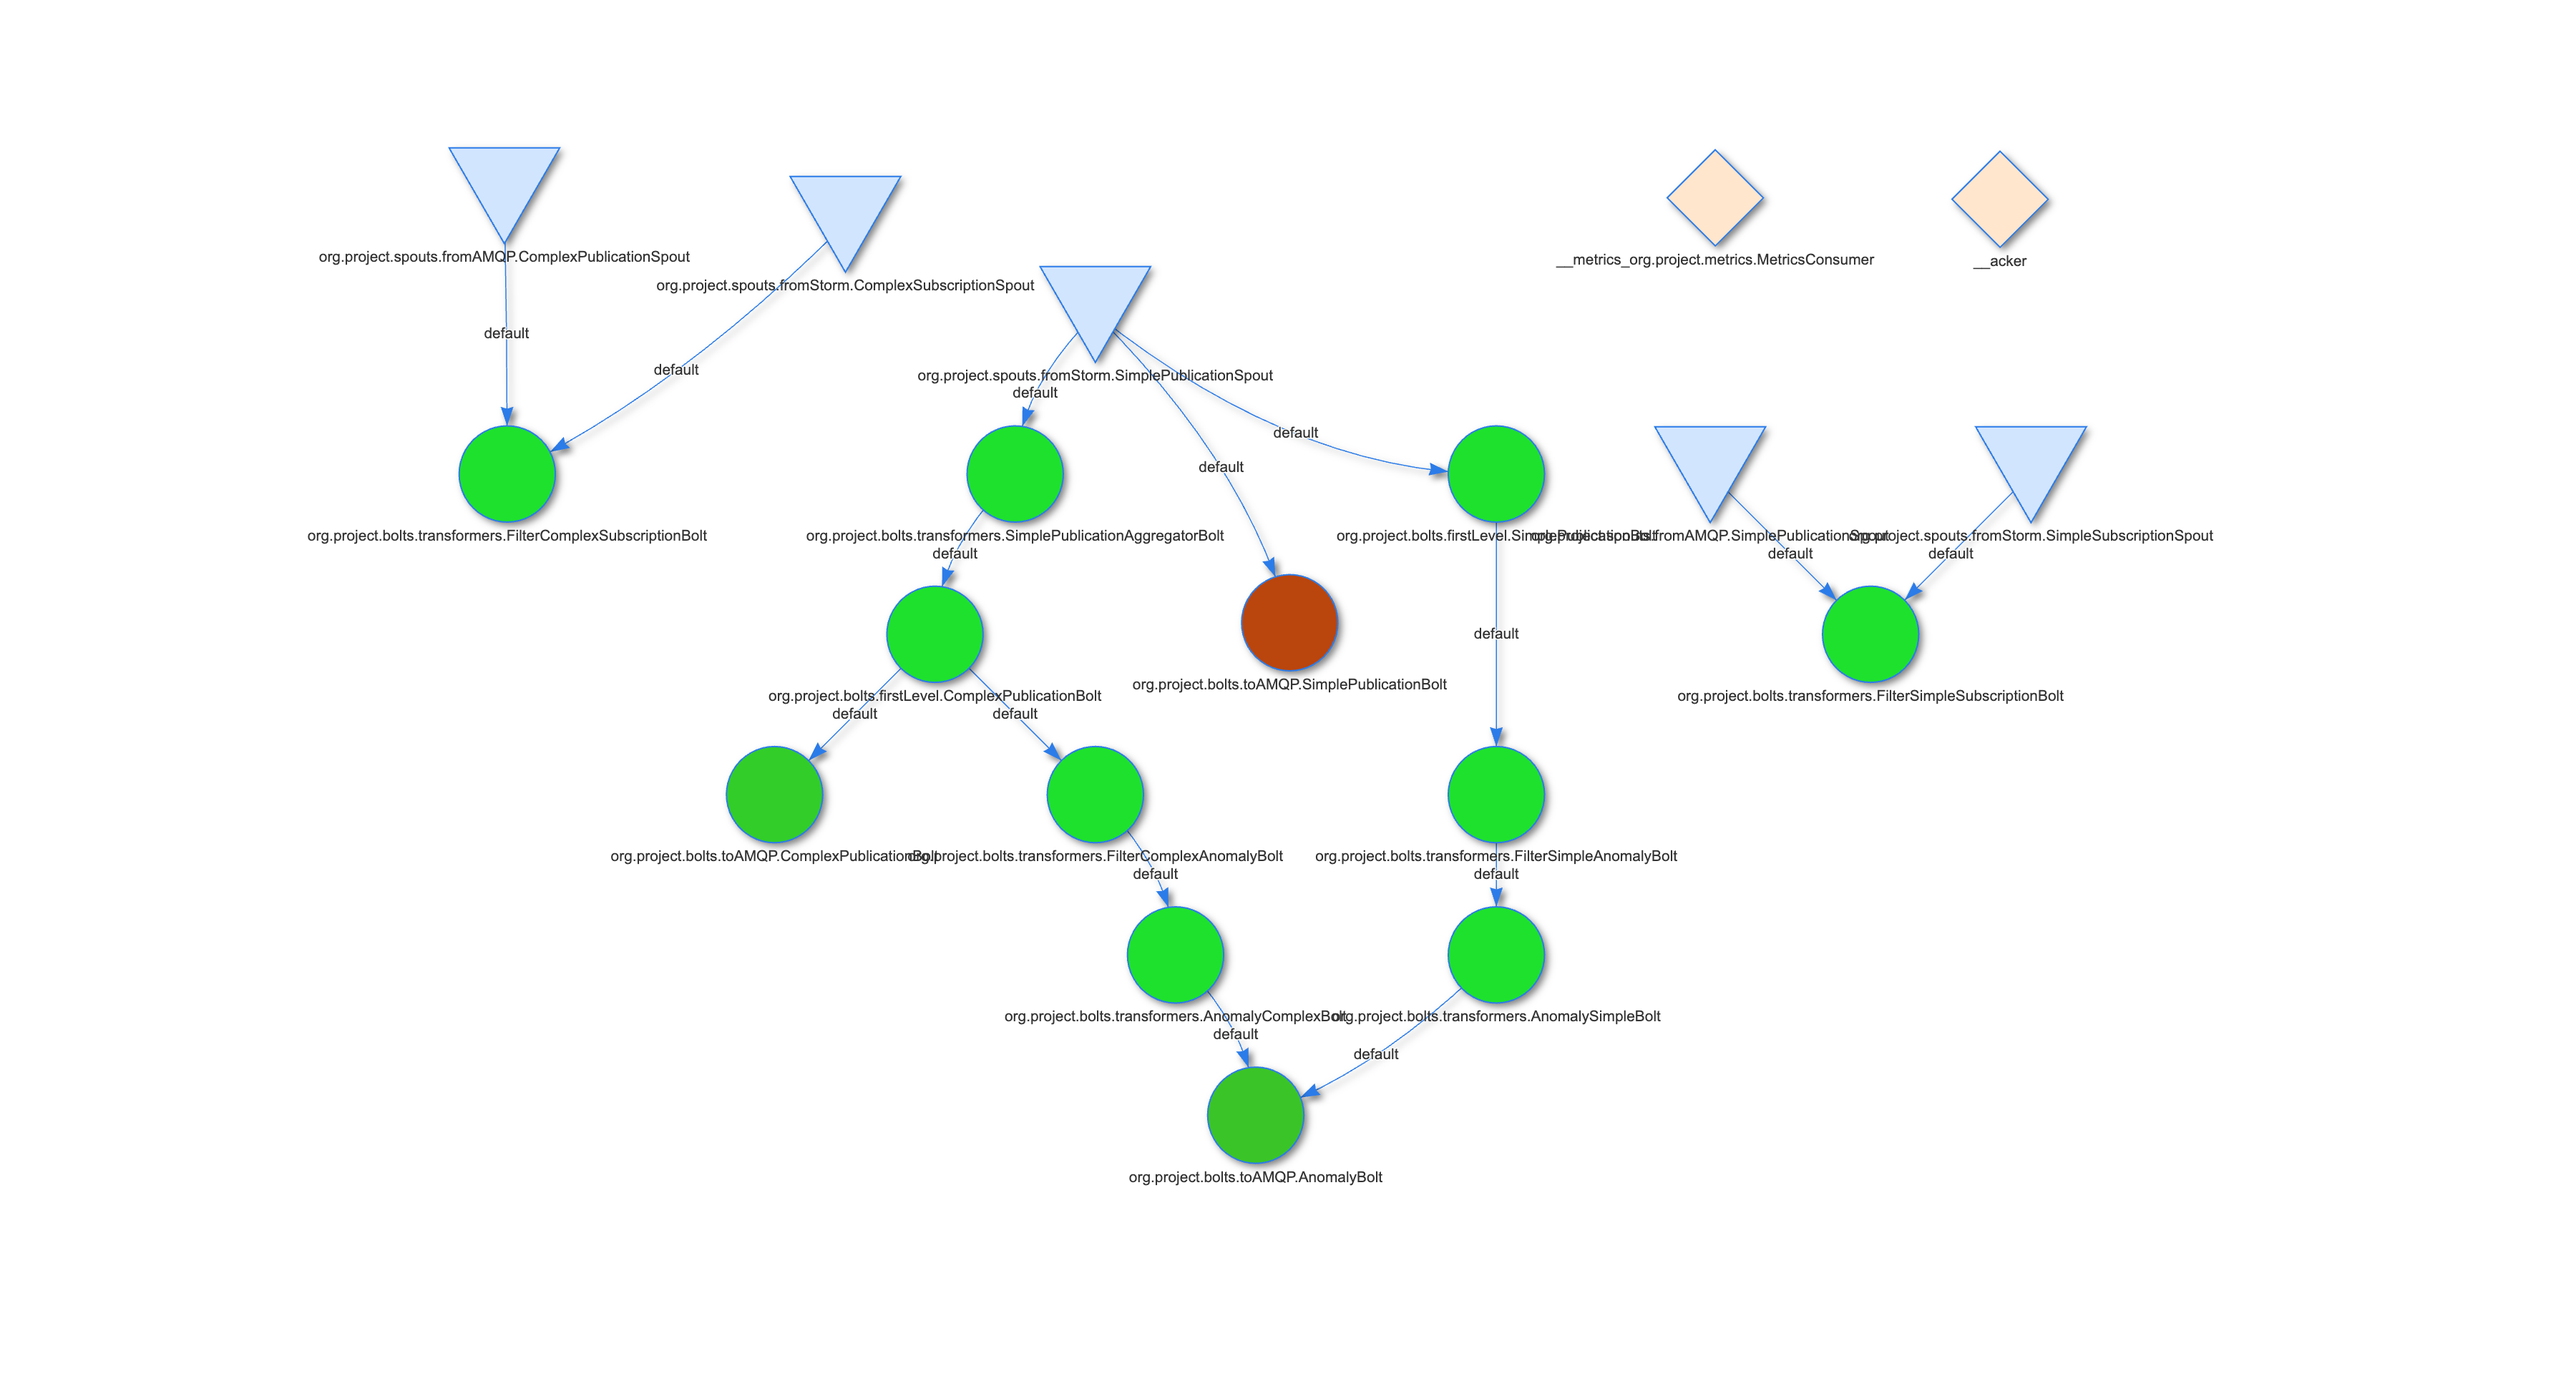
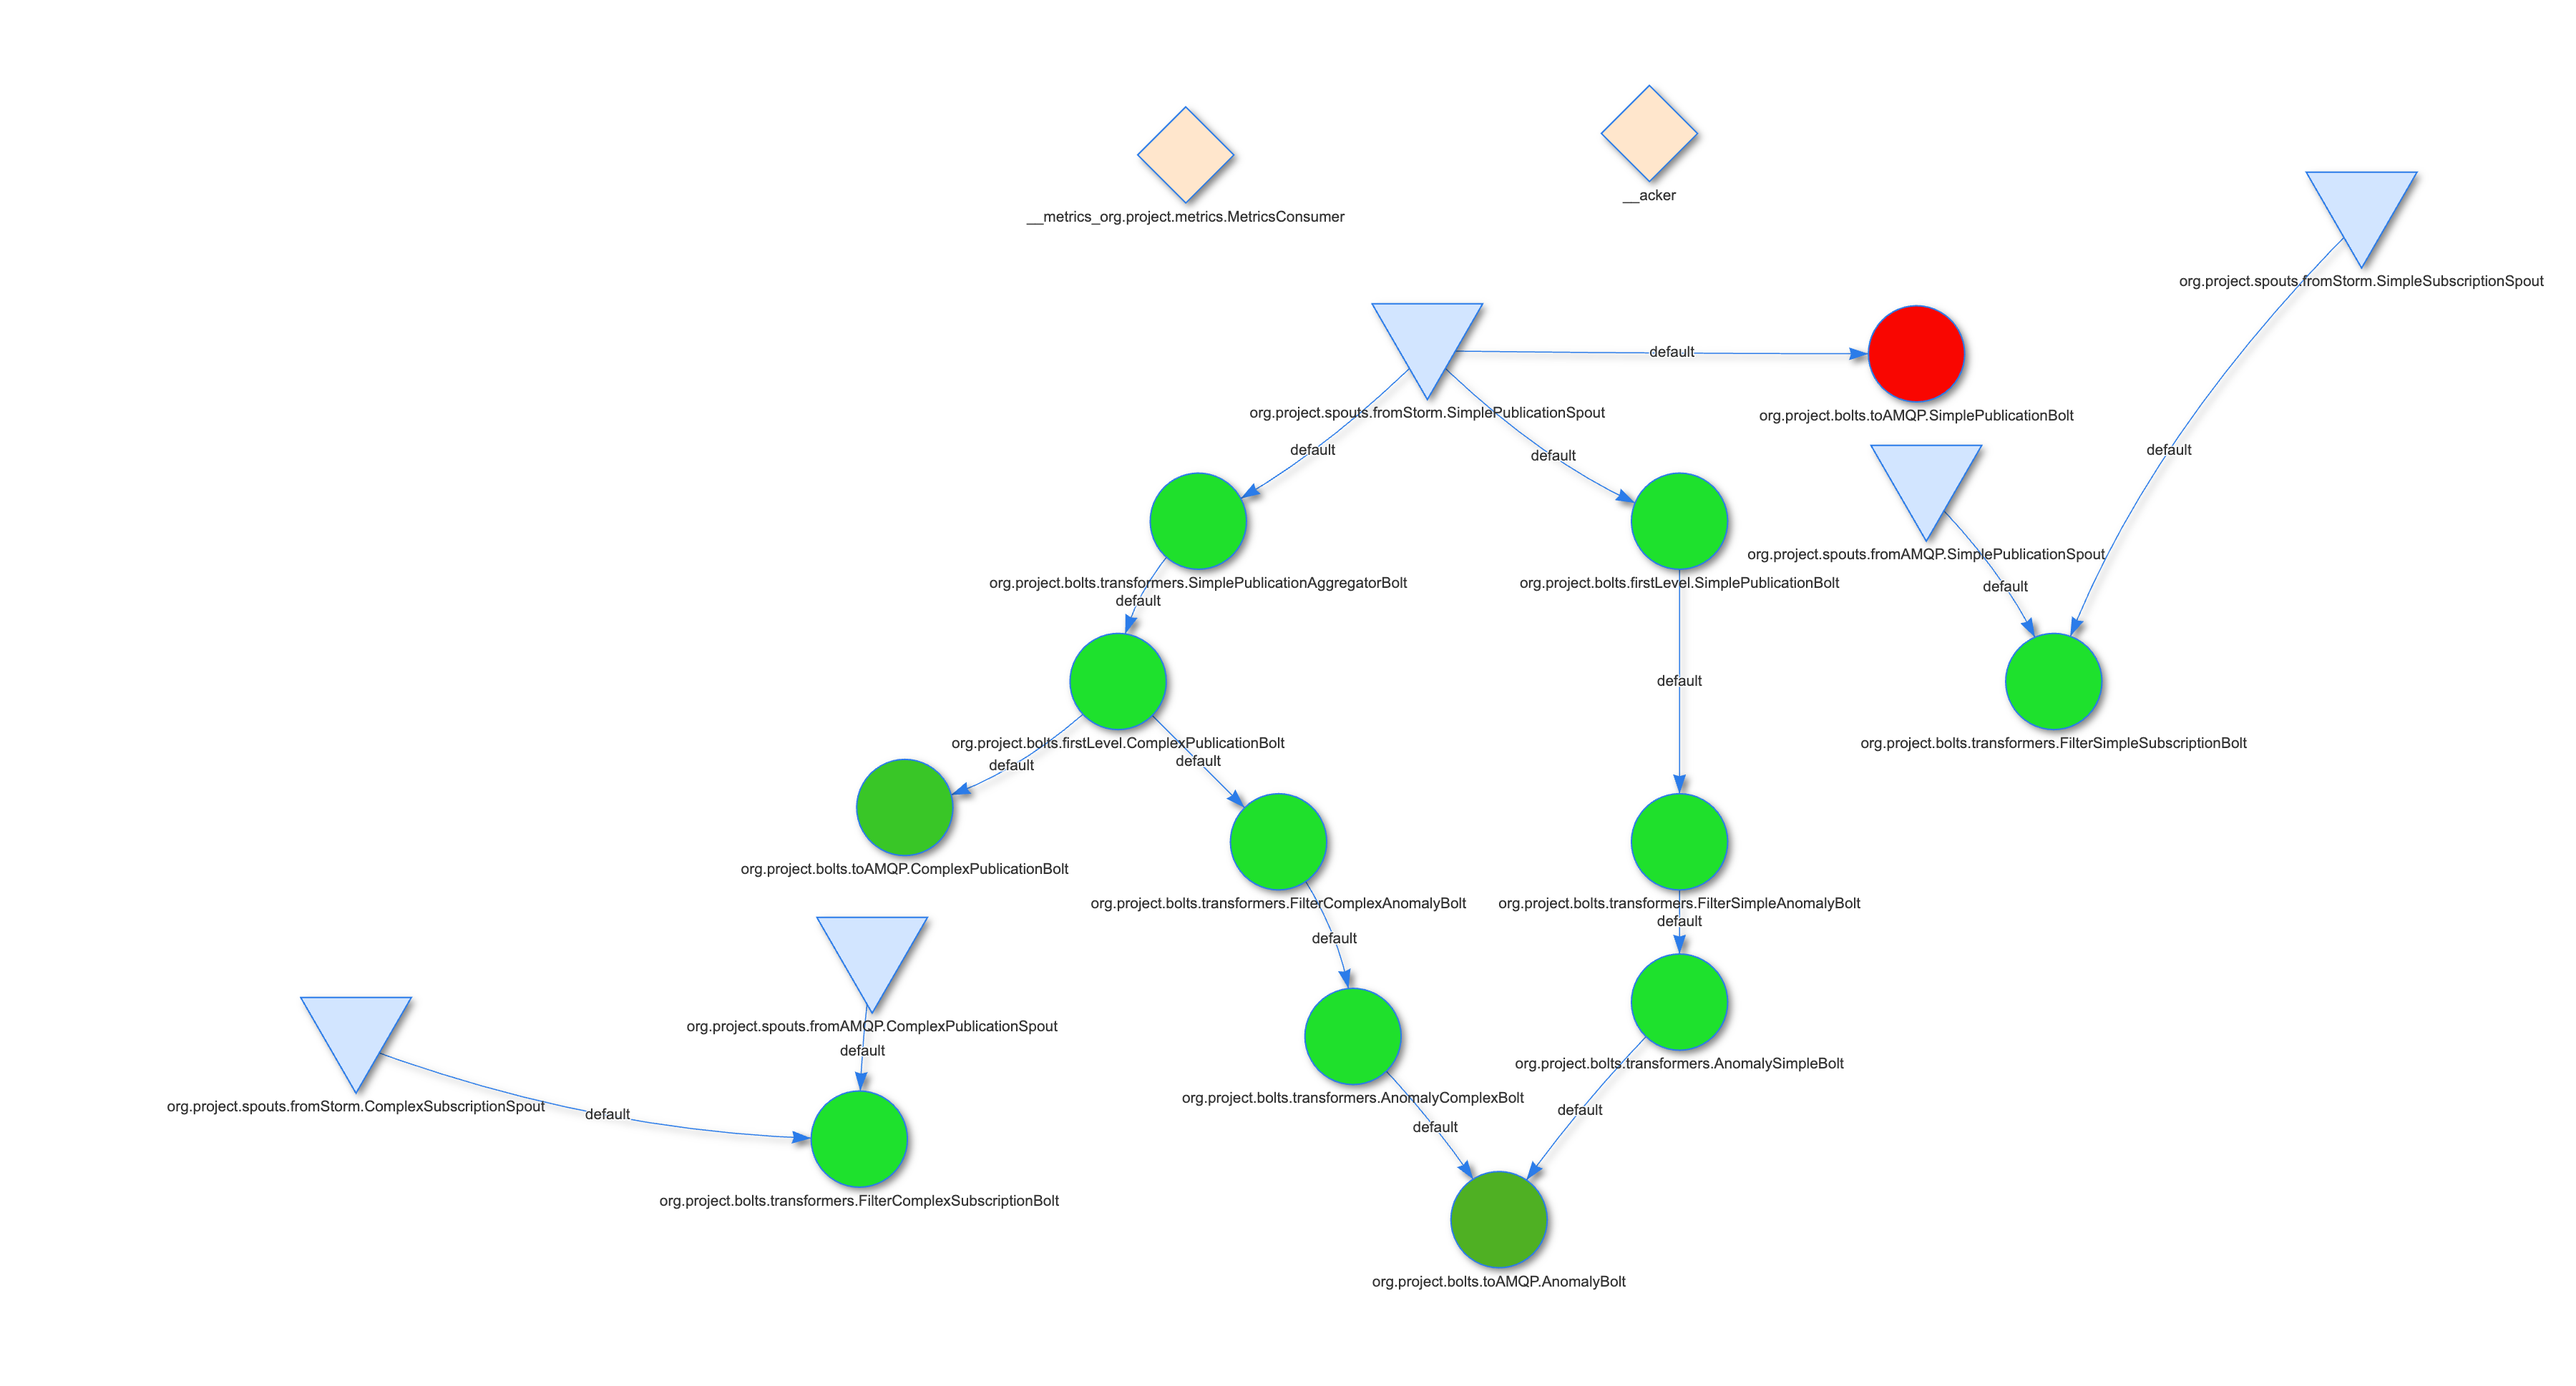
[Project] + simple publication filtering via subscriptions in join bolt

diff --git a/FinalProject/src/main/java/org/project/bolts/toSubscribers/FilterSimpleSubscriptionBolt.java b/FinalProject/src/main/java/org/project/bolts/toSubscribers/FilterSimpleSubscriptionBolt.java
@@ -1,0 +1,84 @@
+package org.project.bolts.toSubscribers;
+
+import org.apache.log4j.Logger;
+import org.apache.storm.task.OutputCollector;
+import org.apache.storm.task.TopologyContext;
+import org.apache.storm.topology.OutputFieldsDeclarer;
+import org.apache.storm.topology.base.BaseRichBolt;
+import org.apache.storm.tuple.Tuple;
+import org.project.filters.SimplePublicationFilter;
+import org.project.models.ProtoSimplePublication;
+import org.project.models.ProtoSimpleSubscription;
+
+import java.util.ArrayList;
+import java.util.HashMap;
+import java.util.List;
+import java.util.Map;
+
+public class FilterSimpleSubscriptionBolt extends BaseRichBolt {
+
+    public static final String ID = FilterSimpleSubscriptionBolt.class.getCanonicalName();
+    private static final Logger LOG = Logger.getLogger(FilterSimpleSubscriptionBolt.class);
+    private OutputCollector collector;
+    final private Map<String, List<ProtoSimpleSubscription.SimpleSubscription>> subscriptions = new HashMap<>();
+    final private Map<String, Integer> publicationMatched = new HashMap<>();
+
+    @Override
+    public void prepare(Map<String, Object> configuration, TopologyContext context, OutputCollector collector) {
+        this.collector = collector;
+    }
+
+    @Override
+    public void execute(Tuple input) {
+        input.getFields().forEach((f) -> {
+            var value = input.getValueByField(f);
+            if (f.equals("SimplePublication")) {
+                var sp = (ProtoSimplePublication.SimplePublication) value;
+
+                subscriptions.forEach(
+                        (k, v) -> {
+                            var matched = v.stream().anyMatch((ss) -> SimplePublicationFilter.filter(ss).test(sp));
+                            if (matched) {
+                                // LOG.info("Simple subscription matched!");
+                                // LOG.info("Subscriber ID: " + k);
+                                // LOG.info("Simple publication:\n " + sp);
+
+                                if (publicationMatched.containsKey(k)) {
+                                    publicationMatched.put(k, publicationMatched.get(k) + 1);
+                                } else {
+                                    publicationMatched.put(k, 1);
+                                }
+                            }
+                        }
+                );
+            }
+            else if (f.equals("SimpleSubscription")) {
+                try {
+                    var ss = (ProtoSimpleSubscription.SimpleSubscription) value;
+                    var key = ss.getSubscriptionId();
+                    if (subscriptions.containsKey(key)) {
+                        subscriptions.get(key).add(ss);
+                    } else {
+                        subscriptions.put(key, new ArrayList<>(List.of(ss)));
+                    }
+                }
+                catch (Exception e) {
+                    LOG.error("Error while processing simple subscription: " + e.getMessage());
+                }
+            }
+        });
+
+        collector.ack(input);
+    }
+
+    @Override
+    public void declareOutputFields(OutputFieldsDeclarer declarer) {
+        // TODO: nothing to declare
+    }
+
+    @Override
+    public void cleanup() {
+        LOG.info("Simple subscription bolt cleanup");
+        LOG.info("Publication matched: " + publicationMatched);
+    }
+}

diff --git a/FinalProject/src/main/java/org/project/bolts/transformers/SimplePublicationAggregatorBolt.java b/FinalProject/src/main/java/org/project/bolts/transformers/SimplePublicationAggregatorBolt.java
@@ -2,8 +2,6 @@ package org.project.bolts.transformers;
 
 import org.apache.log4j.Logger;
 import org.apache.storm.metric.api.AssignableMetric;
-import org.apache.storm.metric.api.MeanReducer;
-import org.apache.storm.metric.api.ReducedMetric;
 import org.apache.storm.task.OutputCollector;
 import org.apache.storm.task.TopologyContext;
 import org.apache.storm.topology.OutputFieldsDeclarer;
@@ -51,10 +49,10 @@ public class SimplePublicationAggregatorBolt extends BaseWindowedBolt {
     public List<ProtoComplexPublication.ComplexPublication> buildComplexPublications(
             List<ProtoSimplePublication.SimplePublication> sps) {
 
-        var cities = sps.stream().map(ProtoSimplePublication.SimplePublication::getCity).collect(Collectors.toSet());
-
         List<ProtoComplexPublication.ComplexPublication> cps = new ArrayList<>();
-        for (var city: cities) {
+
+        var cities = sps.stream().map(ProtoSimplePublication.SimplePublication::getCity).collect(Collectors.toSet());
+        cities.forEach((city) -> {
             var spsForCity = sps.stream().filter((sp) -> sp.getCity().equals(city)).collect(Collectors.toUnmodifiableSet());
 
             var avgTemperature = spsForCity.stream().mapToDouble(ProtoSimplePublication.SimplePublication::getTemperature).average().orElse(0.0);
@@ -69,7 +67,8 @@ public class SimplePublicationAggregatorBolt extends BaseWindowedBolt {
                     .setPublicationsCount(spsForCity.size())
                     .setTimestamp(System.currentTimeMillis())
                     .build());
-        }
+                }
+        );
 
         return cps;
     }

diff --git a/FinalProject/src/main/java/org/project/bolts/toSubscribers/FilterComplexSubscriptionBolt.java b/FinalProject/src/main/java/org/project/bolts/toSubscribers/FilterComplexSubscriptionBolt.java
@@ -1,4 +1,4 @@
-package org.project.bolts.transformers;
+package org.project.bolts.toSubscribers;
 
 import org.apache.log4j.Logger;
 import org.apache.storm.task.OutputCollector;
@@ -39,9 +39,9 @@ public class FilterComplexSubscriptionBolt extends BaseRichBolt {
                     (k, v) -> {
                         var matched = v.stream().anyMatch((cs) -> ComplexPublicationFilter.filter(cs).test(cp));
                         if (matched) {
-                            LOG.info("Complex subscription matched!");
-                            LOG.info("Subscriber ID: " + k);
-                            LOG.info("Complex publication:\n " + cp);
+                            // LOG.info("Complex subscription matched!");
+                            // LOG.info("Subscriber ID: " + k);
+                            // LOG.info("Complex publication:\n " + cp);
 
                             if (publicationMatched.containsKey(k)) {
                                 publicationMatched.put(k, publicationMatched.get(k) + 1);

diff --git a/FinalProject/src/main/java/org/project/Application.java b/FinalProject/src/main/java/org/project/Application.java
@@ -8,6 +8,8 @@ import org.apache.storm.topology.TopologyBuilder;
 import org.apache.storm.topology.base.BaseWindowedBolt;
 import org.apache.storm.tuple.Fields;
 import org.project.bolts.firstLevel.*;
+import org.project.bolts.toSubscribers.FilterComplexSubscriptionBolt;
+import org.project.bolts.toSubscribers.FilterSimpleSubscriptionBolt;
 import org.project.bolts.transformers.*;
 import org.project.bolts.toAMQP.AnomalyBolt;
 import org.project.bolts.toAMQP.SimplePublicationBolt;
